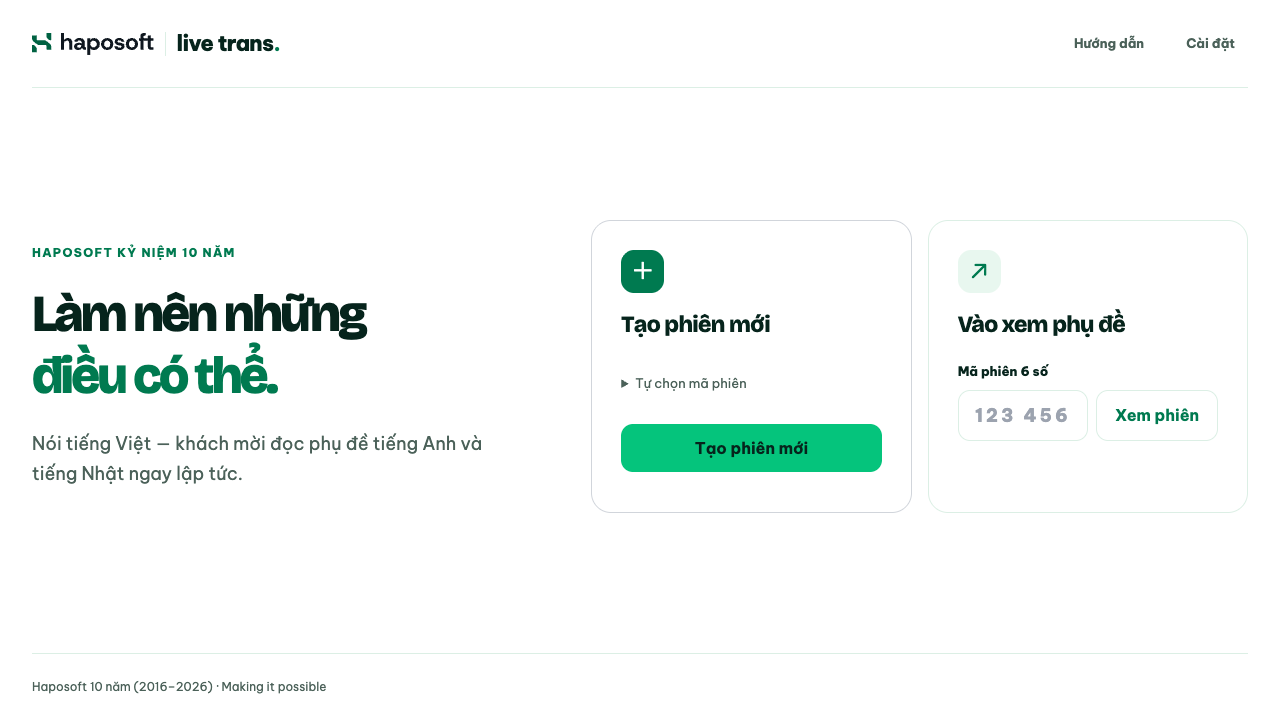
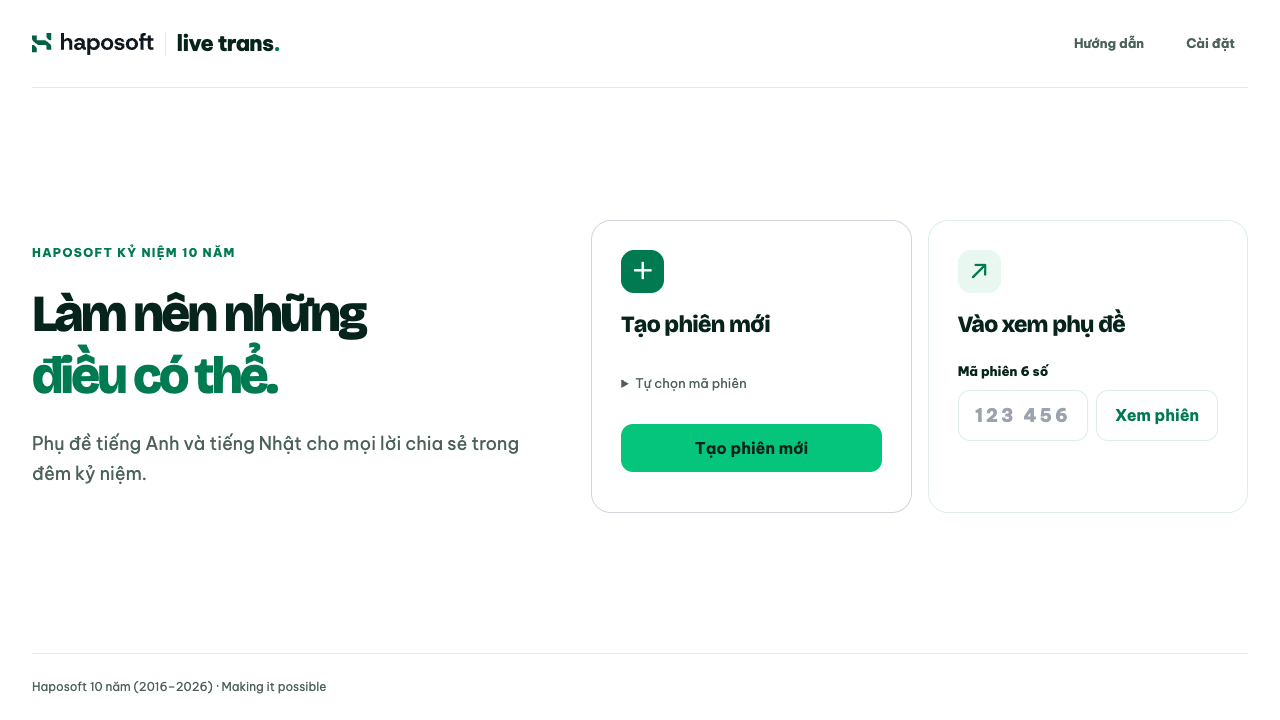
feat(web): carry the Haposoft 10-year line across titles and footers
Tab titles name the anniversary, the mic and settings footers use the event
line, projection windows title themselves by language plus the event, and
the home subtitle becomes a short, neutral line about the captions.

Changed region(s): [[0.0312, 0.6111, 0.4062, 0.6722]]

diff --git a/public/mic.html b/public/mic.html
@@ -5,7 +5,7 @@
   <meta name="viewport" content="width=device-width, initial-scale=1">
   <meta name="referrer" content="no-referrer">
   <meta name="theme-color" content="#ffffff">
-  <title>Micro của bạn — Live Trans</title>
+  <title>Micro của bạn — Live Trans · Haposoft 10 năm</title>
   <link rel="icon" type="image/png" href="favicon.png?v=hapo10">
   <link rel="apple-touch-icon" href="apple-touch-icon.png?v=hapo10">
   <link rel="stylesheet" href="fonts/fonts.css">
@@ -45,7 +45,7 @@
       <section class="mic-preview" aria-labelledby="preview-title"><div class="original-heading"><span class="language-mark vi-mark" aria-hidden="true">VI</span><h2 id="preview-title">Lời bạn đang nói</h2></div><p id="caption-vi">Lời nói sẽ hiện ở đây khi bạn bắt đầu.</p></section>
       <div class="mic-notes"><p><strong>Bạn luôn kiểm soát micro.</strong> Nhấn lần nữa để dừng thu.</p><p>Giữ trang và màn hình điện thoại mở khi nói. Nếu rời trang hoặc khóa màn hình, micro sẽ dừng.</p><p id="wake-status" class="helper"></p></div>
     </main>
-    <footer class="mic-footer">Live Trans · Nói tự nhiên, kết nối dễ dàng.</footer>
+    <footer class="mic-footer">Haposoft 10 năm · Making it possible</footer>
   </div>
 </body>
 </html>

diff --git a/public/index.html b/public/index.html
@@ -5,7 +5,7 @@
   <meta name="viewport" content="width=device-width, initial-scale=1">
   <meta name="referrer" content="no-referrer">
   <meta name="theme-color" content="#ffffff">
-  <title>Live Trans — Phụ đề trực tiếp</title>
+  <title>Live Trans — Haposoft 10 năm</title>
   <link rel="icon" type="image/png" href="favicon.png?v=hapo10">
   <link rel="apple-touch-icon" href="apple-touch-icon.png?v=hapo10">
   <link rel="stylesheet" href="fonts/fonts.css">
@@ -25,7 +25,7 @@
         <div class="hero-copy">
           <p class="eyebrow">HAPOSOFT KỶ NIỆM 10 NĂM</p>
           <h1 id="welcome-title">Làm nên những<br><span>điều có thể.</span></h1>
-          <p class="hero-description">Nói tiếng Việt — khách mời đọc phụ đề tiếng Anh và tiếng Nhật ngay lập tức.</p>
+          <p class="hero-description">Phụ đề tiếng Anh và tiếng Nhật cho mọi lời chia sẻ trong đêm kỷ niệm.</p>
 
         </div>
         <div class="welcome-actions">

diff --git a/public/settings.html b/public/settings.html
@@ -5,7 +5,7 @@
   <meta name="viewport" content="width=device-width, initial-scale=1">
   <meta name="referrer" content="no-referrer">
   <meta name="theme-color" content="#ffffff">
-  <title>Cài đặt — Live Trans</title>
+  <title>Cài đặt — Live Trans · Haposoft 10 năm</title>
   <link rel="icon" type="image/png" href="favicon.png?v=hapo10">
   <link rel="apple-touch-icon" href="apple-touch-icon.png?v=hapo10">
   <link rel="stylesheet" href="fonts/fonts.css">
@@ -39,7 +39,7 @@
         </div>
       </section>
     </main>
-    <footer class="site-footer"><span>Live Trans · Cài đặt chỉ ảnh hưởng phiên mới.</span></footer>
+    <footer class="site-footer"><span>Haposoft 10 năm · Cài đặt chỉ ảnh hưởng phiên mới.</span></footer>
   </div>
 </body>
 </html>

diff --git a/public/guide.html b/public/guide.html
@@ -5,7 +5,7 @@
   <meta name="viewport" content="width=device-width, initial-scale=1">
   <meta name="referrer" content="no-referrer">
   <meta name="theme-color" content="#ffffff">
-  <title>Hướng dẫn — Live Trans</title>
+  <title>Hướng dẫn — Live Trans · Haposoft 10 năm</title>
   <link rel="icon" type="image/png" href="favicon.png?v=hapo10">
   <link rel="apple-touch-icon" href="apple-touch-icon.png?v=hapo10">
   <link rel="stylesheet" href="fonts/fonts.css">

diff --git a/public/display.html b/public/display.html
@@ -4,7 +4,7 @@
   <meta charset="utf-8">
   <meta name="viewport" content="width=device-width, initial-scale=1">
   <meta name="referrer" content="no-referrer">
-  <title>Live Trans · English</title>
+  <title>English · Haposoft 10 năm</title>
   <link rel="icon" href="favicon.png?v=hapo10" type="image/png">
   <link rel="stylesheet" href="fonts/fonts.css">
   <link rel="stylesheet" href="display.css">

diff --git a/public/display.js b/public/display.js
@@ -27,7 +27,7 @@ const labels = {
   },
 }[lang];
 document.documentElement.lang = lang;
-document.title = `Live Trans · ${labels.title}`;
+document.title = `${labels.title} · Haposoft 10 năm`;
 $('language-title').textContent = labels.title;
 $('caption-scroll').setAttribute('aria-label', labels.captions);
 // Fade the top edge only once older lines scroll out, so the first line is never dimmed.
